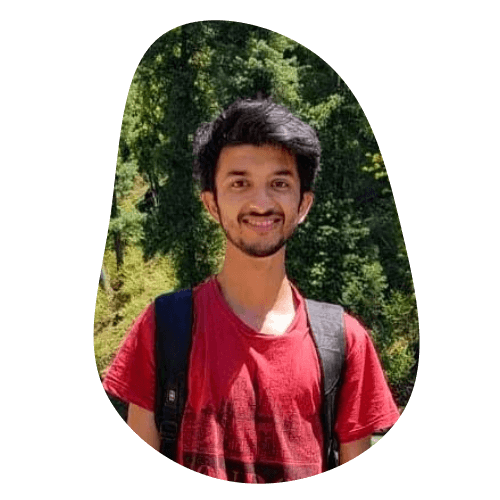
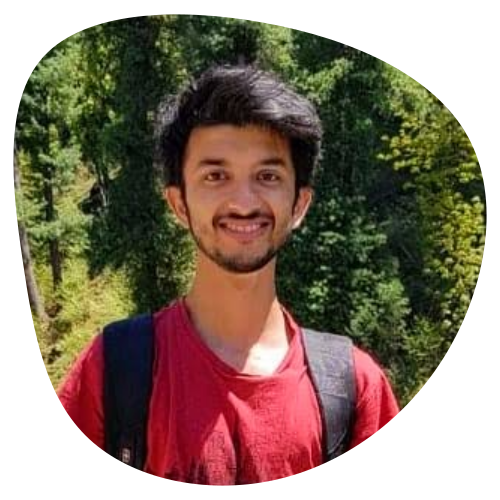
Changed About photos

diff --git a/src/components/enjoyedStuff.js b/src/components/enjoyedStuff.js
@@ -1,5 +1,5 @@
 import React from 'react';
-import read1 from "../media/tiles/tgost-tile.png";
+// import read1 from "../media/tiles/tgost-tile.png";
 import read2 from "../media/tiles/tfm-tile.png";
 import read3 from "../media/tiles/aot-tile.png";
 
@@ -22,7 +22,7 @@ function EnjoyedStuff(){
 		<div className='enjoyed-stuff-flex-wrapper'>
 			<div className="about-heading">What I'm reading</div>	
 			<div className="enjoyed-segment">
-				<img src={read1} alt=""/>
+				{/* <img src={read1} alt=""/> */}
 				<img src={read2} alt=""/>
 				<img src={read3} alt=""/>
 			</div>
@@ -33,7 +33,7 @@ function EnjoyedStuff(){
 				<img src={watch2} alt=""/>
 			</div>
 
-			<div className="about-heading">What I'm listening</div>	
+			<div className="about-heading">What I'm listening to</div>	
 			<div className="enjoyed-segment">
 				<img src={listen1} alt=""/>
 				<img src={listen2} alt=""/>

diff --git a/src/pages/home.js b/src/pages/home.js
@@ -41,7 +41,7 @@ function Home(){
 				<div className='segment'>
 					<img src={SecondBlob} alt="" className='second-blob'/>
 					<p align='right'>
-						I'm very passionate when it comes to anything <br/> programming related. I have <span className='blue-ify'>3 specializations</span> and a <br/> minor in computer science <br/>
+						I'm very passionate when it comes to <br/> programming. I have <span className='blue-ify'>3 specializations</span> and a <br/> minor in computer science <br/>
 						<a href="https://www.youtube.com/watch?v=dQw4w9WgXcQ" targer='_black' className='link'>view specializations</a>
 					</p>
 					

diff --git a/src/components/knowMore.js b/src/components/knowMore.js
@@ -74,7 +74,7 @@ function KnowMore(){
 				<img src={SixthImg} alt='' className="about-segment-image"/>
 				<p className='about-segment-text' align='right'>
 					<img src={SixthBlob} alt='' className='sixth-blob'/>
-					I am particularly interested in <span className='blue-ify'>machine learning</span>, <span className='blue-ify'>AI</span> and their integration in everyday human life
+					I am particularly interested in <span className='blue-ify'>machine learning</span> and <span className='blue-ify'>artificial intelligence</span>
 				</p>
 			</div>
 		</div>

diff --git a/src/App.css b/src/App.css
@@ -430,8 +430,7 @@ a.social-links.lichess:hover:before {
   display: flex;
   flex-direction: column;
   align-items: center;
-  padding: 0vh 5vw;
-  padding-top: 5vh;
+  padding: 5vh 10vw 0vh 10vw;
 }
 
 .about-heading {
@@ -460,7 +459,7 @@ a.social-links.lichess:hover:before {
 }
 
 .about-segment-image {
-  height: calc(115px + 2vw);
+  height: calc(100px + 2.5vw);
   opacity: .75;
 }
 

diff --git a/src/pages/projects.js b/src/pages/projects.js
@@ -67,7 +67,7 @@ function Projects(){
 				<ProjectTile
 					heading='SCARA kinematics'
 					tags={['Kinematics','Matlab']}
-					info='Programmed forward and reverse kinematics for SCARA robot with GUI in Matlab'
+					info='Programmed forward and inverse kinematics for SCARA robot with GUI in Matlab'
 					// link='view on Github'
 					field='Robotics'
 					year='2018'

diff --git a/src/components/footer.js b/src/components/footer.js
@@ -9,7 +9,7 @@ function Footer(){
 			<div className='footer-text'>
 				<div>Copyright Ⓒ 2020 Adil Naqvi.&nbsp;</div>
 				<div>All Rights Reserved.&nbsp;</div>
-				<div>Made with <span role="img" aria-label="heart">❤</span> in React.&nbsp;</div>
+				<div>Made with <span role="img" aria-label="heart">❤</span> in React.</div>
 			</div>
 		</footer>
 	);
